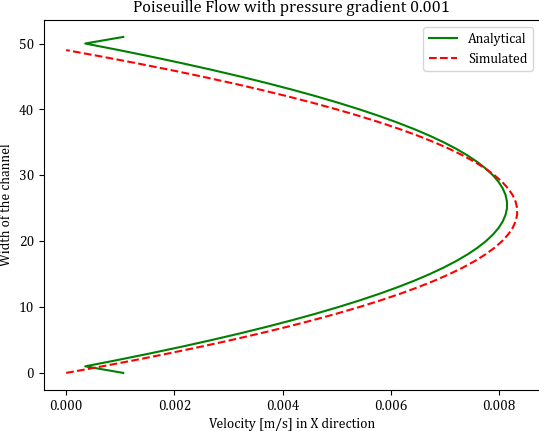
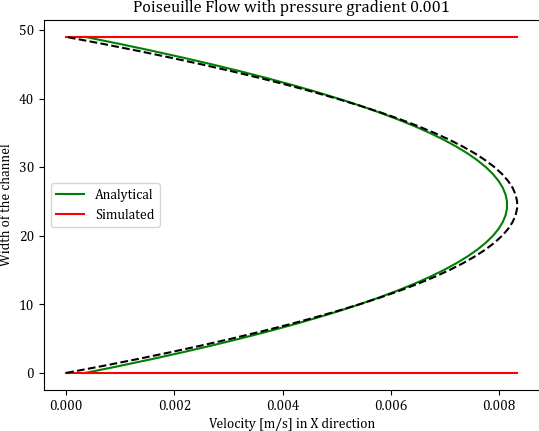
Updated Poisseuile

diff --git a/simulattions/poiseuilleFlow.py b/simulattions/poiseuilleFlow.py
@@ -1,4 +1,5 @@
 # imports
+from cProfile import label
 import numpy as np
 import matplotlib.pyplot as plt
 from lbm_common import lbm
@@ -32,11 +33,11 @@ def poiseuille_simulation(rho_null, p_diff, output_dir, Nx, Ny, relaxation,steps
         analytical_value = analytical_poiseuille() 
         axes[1].legend(['Analytical Flow','Simulated Flow','Rigid wall','Rigid wall'])
         x = np.linspace(0, np.max(analytical_value), Ny)    
-        y_max = np.full(len(x),Ny)
+        y_max = np.full(len(x),Ny-1)
         y_min = np.full(len(x),0)   
-        axes[1].plot(x, y_max, color='r', linewidth=3.0)
-        axes[1].plot(x, y_min, color='r', linewidth=3.0)               
-        axes[1].plot(analytical_value, np.arange(len(analytical_value)),color='r', linestyle='dashed')
+        axes[1].plot(x, y_max, color='r', linewidth=1.5)
+        axes[1].plot(x, y_min, color='r', linewidth=1.5)               
+        axes[1].plot(analytical_value, np.arange(len(analytical_value)),color='black', linestyle='dashed')
         anim = animation.FuncAnimation(figs[1],visualize_poiseuille,repeat=True,frames=len(poiseuille_list))        
         anim.save('{}/Poiseuille_animation.gif'.format(output_dir),writer='imagemagic', fps=2)
 
@@ -66,17 +67,29 @@ def poiseuille_simulation(rho_null, p_diff, output_dir, Nx, Ny, relaxation,steps
         f = lbm.streaming(f)
         f = boundary.poiseuille_bounce_back(f,0)        
         velocity = lbm.calculate_velocity(f,rho)
-        # rho, velocity = lbm.caluculate_real_values(f)
-        f, density, velocity = lbm.calculate_collision(f, 0.5)
+        f, density, velocity = lbm.calculate_collision(f, relaxation)
         if save_every is not None and (not (step % save_every) and step!=0):
+             
+             
             axes[0].cla()
             axes[0].set_ylabel("Width of the channel")
             axes[0].set_xlabel("Velocity [m/s] in X direction")
-            axes[0].plot(velocity[:,Nx//2,1], np.arange(Ny+2), color = 'g')
+            x_val = velocity[1:-1, Nx//2,1]
+            # x_val = np.concatenate((np.array([0]),velocity[2:-2, Nx//2,1],np.array([0])))
+            y_val = np.arange(Ny)
+            # y_val = np.concatenate((np.array([0]),np.arange(1,Ny-1),np.array([50])))
+            axes[0].plot(x_val, y_val, color = 'g')            
+            # axes[0].plot(velocity[:,Nx//2,1], np.arange(Ny+2), color = 'g')
             save_path = os.path.join(common_path, f'velocity_at{step}.png')
             axes[0].set_title('Poiseuille Flow with pressure gradient {}'.format(p_diff))
-            analytical_value = analytical_poiseuille()        
-            axes[0].plot(analytical_value, np.arange(len(analytical_value)),color='r', linestyle='dashed', label='Analytical')
+            analytical_value = analytical_poiseuille()       
+        
+            x = np.linspace(0, np.max(analytical_value), Ny)    
+            y_max = np.full(len(x),Ny-1)
+            y_min = np.full(len(x),0)
+            axes[0].plot(x, y_max, color='r', label="Fixed wall")
+            axes[0].plot(x, y_min, color='r')
+            axes[0].plot(analytical_value, np.arange(len(analytical_value)),color='black', linestyle='dashed', label='Analytical')
             axes[0].legend(['Analytical','Simulated'])
             figs[0].savefig(save_path, bbox_inches='tight', pad_inches=0)            
             poiseuille_list.append(velocity[1:-1, Nx//2,1])
@@ -85,4 +98,3 @@ def poiseuille_simulation(rho_null, p_diff, output_dir, Nx, Ny, relaxation,steps
     # visualize
     analytical_poiseuille()
     animate(velocity,np.max(velocity[1:-1, Nx//2,1]))
-

diff --git a/lbm_common/boundary.py b/lbm_common/boundary.py
@@ -45,15 +45,15 @@ def poiseuille_bounce_back(f,lid_vel):
 
     return f
 
-def periodic_boundary_with_pressure_variations(f,rho_in,rho_out):
-    density = lbm.density_calculation(f)
-    velocity = lbm.calculate_velocity(f, density)
-    equilibrium = lbm.calculate_equilibrium(density, velocity)    
-    equilibrium_in = lbm.calculate_equilibrium_point(rho_in, velocity[:,-2,:])    
-    f[:, 0, :] = equilibrium_in + (f[:, -2,:] - equilibrium[:, -2,:])
-    equilibrium_out = lbm.calculate_equilibrium_point(rho_out, velocity[:,1,:])
-    f[:, -1, :] = equilibrium_out + (f[:, 1, :] - equilibrium[:, 1, :])
-    return f, density, velocity
+# def periodic_boundary_with_pressure_variations(f,rho_in,rho_out):
+#     density = lbm.density_calculation(f)
+#     velocity = lbm.calculate_velocity(f, density)
+#     equilibrium = lbm.calculate_equilibrium(density, velocity)    
+#     equilibrium_in = lbm.calculate_equilibrium_point(rho_in, velocity[:,-2,:])    
+#     f[:, 0, :] = equilibrium_in + (f[:, -2,:] - equilibrium[:, -2,:])
+#     equilibrium_out = lbm.calculate_equilibrium_point(rho_out, velocity[:,1,:])
+#     f[:, -1, :] = equilibrium_out + (f[:, 1, :] - equilibrium[:, 1, :])
+#     return f, density, velocity
 
 def sliding_bounce_back(f,lid_vel,velocity):    
 

diff --git a/init.py b/init.py
@@ -34,7 +34,7 @@ def experiment_type(type):
     elif (type == CV.poiseuille_flow):
         Nx = 50
         Ny = 50
-        steps = 4000
+        steps = 5000
         rho_null = 1
         p_diff = 0.001
         omega = 0.5
@@ -56,4 +56,4 @@ def experiment_type(type):
 """Define the experiemnt  category"""
 if __name__ == "__main__":
     # 'shear_wave', 'couette_flow', 'poiseuille_flow', 'sliding_lid'
-    experiment_type("sliding_lid")
+    experiment_type("couette_flow")
